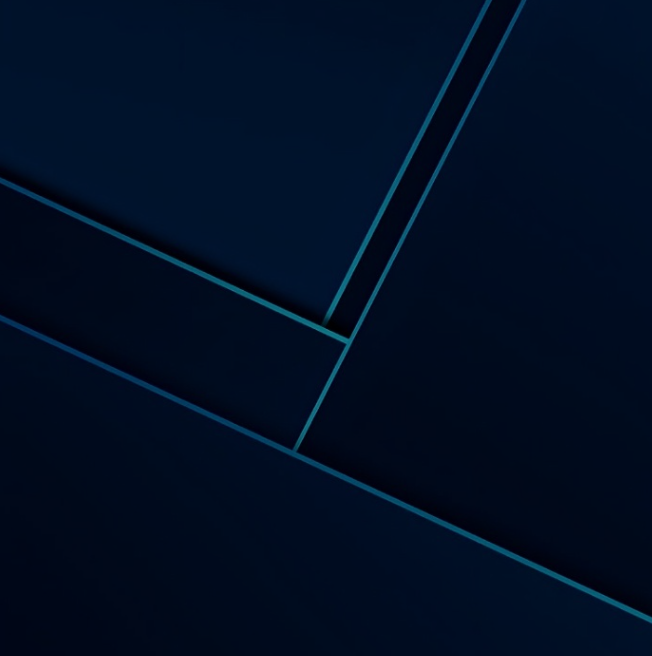
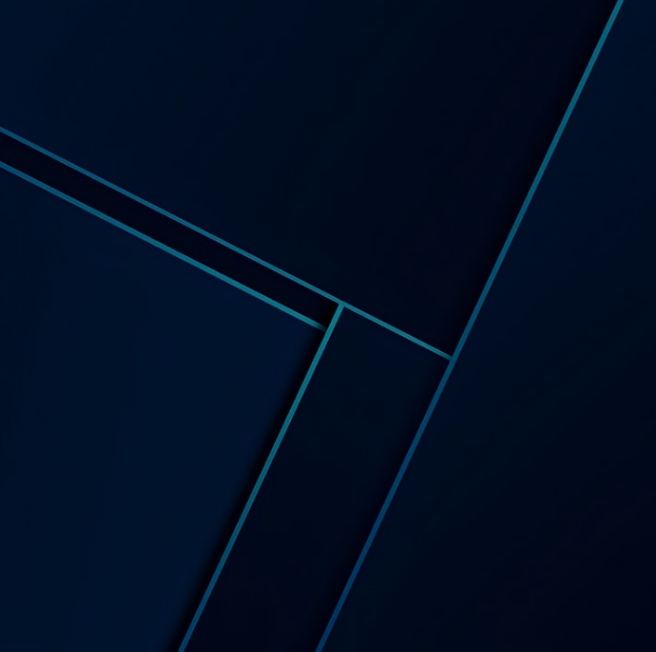
test bg2

diff --git a/css/formulario.css b/css/formulario.css
@@ -2,7 +2,7 @@
 
 .contato {
   padding: 10% 0 10% 0;
-  background: url(../assets/imgs/bg_default.png) no-repeat;
+  background: url(../assets/imgs/bg_contato.png) no-repeat;
   background-size: cover;
   transform: skewY(-3deg);
   position: relative;
